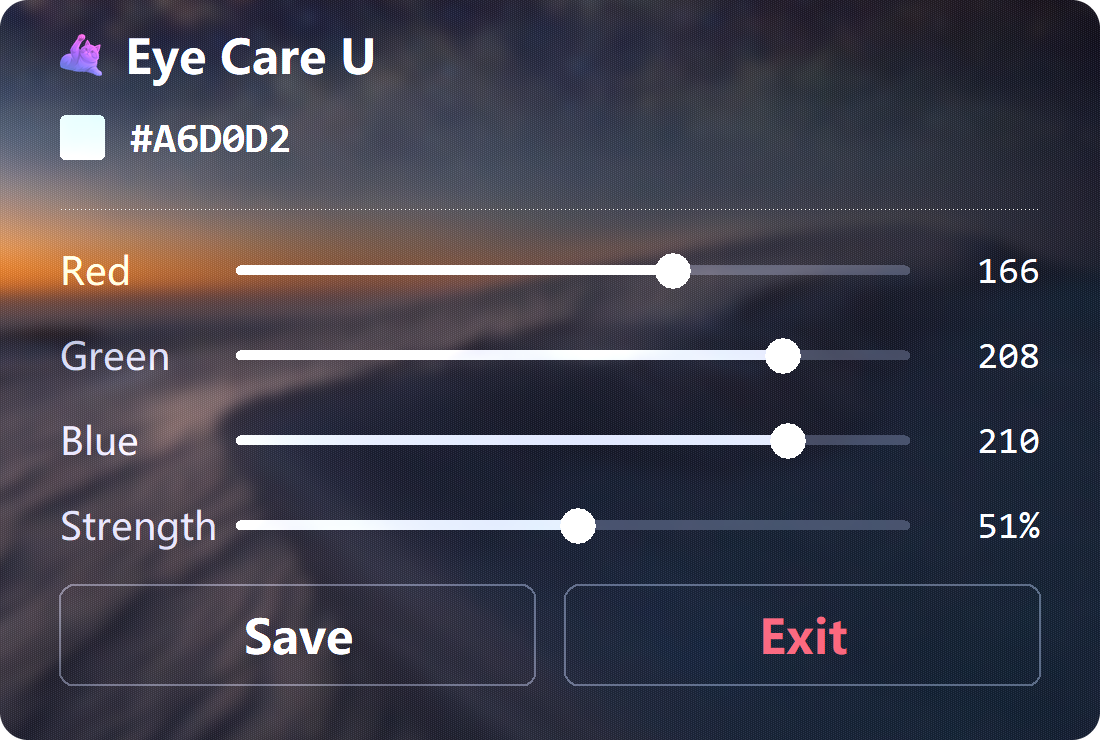
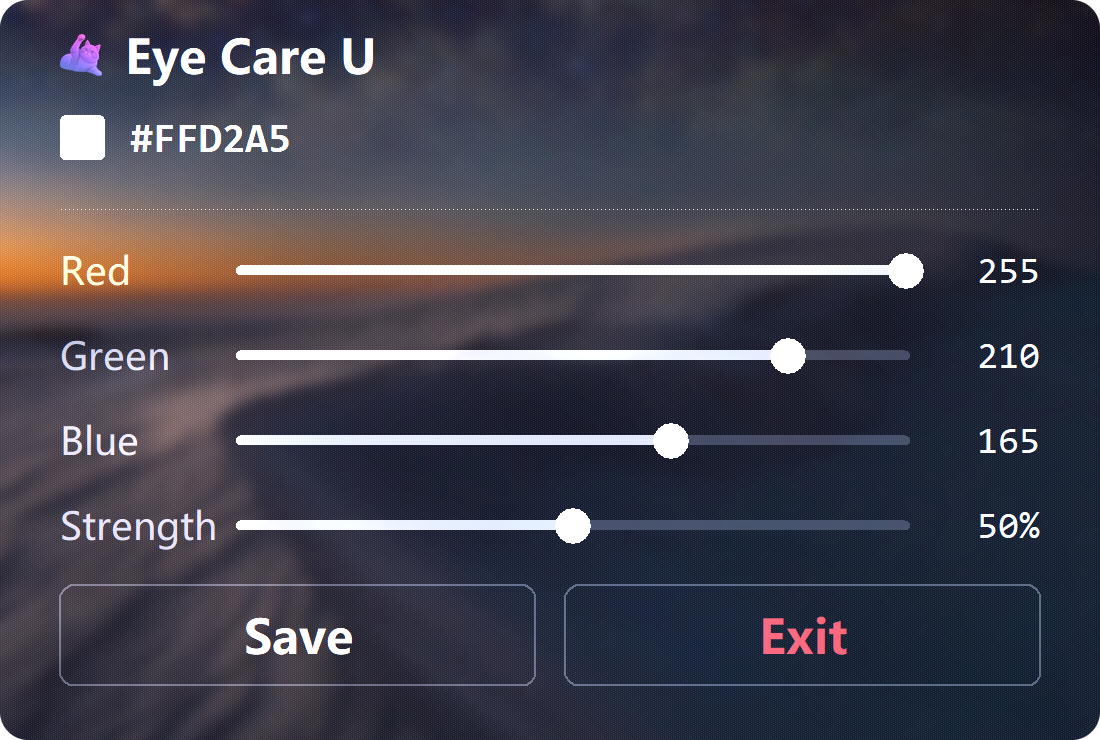
feat: 默认配色改为暖琥珀 #FFD2A5（红通道零损失压蓝护眼，替代中性灰）

diff --git a/eye_care_u.py b/eye_care_u.py
@@ -41,7 +41,7 @@ else:
 LOG_FILE = os.path.join(BASE_DIR, "eye_care_u_error.log")
 SETTINGS_FILE = os.path.join(BASE_DIR, "eye_care_u_settings.json")
 
-DEFAULTS = {"r": 180, "g": 180, "b": 180, "strength": 0.5}   # 护眼灰（压低屏幕黑白对比度）
+DEFAULTS = {"r": 255, "g": 210, "b": 165, "strength": 0.5}   # 暖琥珀 #FFD2A5（红通道零损失，压蓝为主，f.lux/夜间模式同源的温和色温）
 REAPPLY_SECONDS = 5      # 周期重刷 Gamma，防被游戏/其他软件重置；0 = 关闭
 HOTKEY = "Q"             # Ctrl+Alt+Q 退出并恢复原色彩
 
